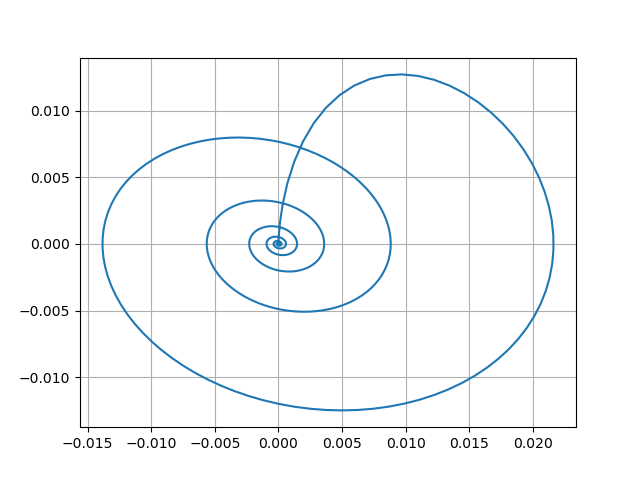
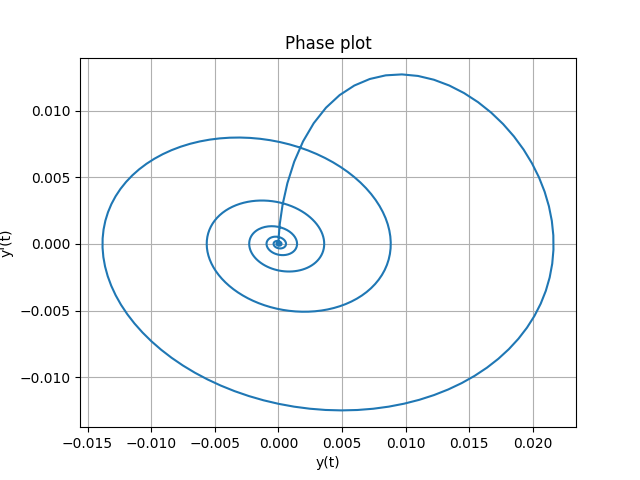
Changes lab3 system name and figures

diff --git a/lab3/exercises/exercise1/exercise1.py b/lab3/exercises/exercise1/exercise1.py
@@ -2,25 +2,26 @@ import numpy as np
 import matplotlib.pyplot as plt
 from scipy.integrate import odeint
 
-def pend(u, t):
+
+def system(u, t):
     y, z = u
-    dudt = [z, (-2*z - 5*y)/10]
+    dudt = [z, (-2 * z - 5 * y) / 10]
     return dudt
+
 
 u0a = [0, 0]
 u0b = [0, 1]
 u0c = [0, -1]
 
-t = np.linspace(0,50,1000)
+t = np.linspace(0, 50, 1000)
 
-sola = odeint(pend, u0a, t)
-solb = odeint(pend, u0b, t)
-solc = odeint(pend, u0c, t)
+sola = odeint(system, u0a, t)
+solb = odeint(system, u0b, t)
+solc = odeint(system, u0c, t)
 
-
-print(f"max distance sola = {max(sola[:,0])}")
-print(f"max distance solb = {max(solb[:,0])}")
-print(f"max distance solc = {min(solc[:,0])}")
+print(f"max distance sola = {max(sola[:, 0])}")
+print(f"max distance solb = {max(solb[:, 0])}")
+print(f"max distance solc = {min(solc[:, 0])}")
 
 fig, (axs1, axs2, axs3) = plt.subplots(3, 1)
 axs1.plot(t, sola[:, 0], 'b', label='y(t)')

diff --git a/lab3/exercises/exercise3/exercise3.py b/lab3/exercises/exercise3/exercise3.py
@@ -3,7 +3,7 @@ import numpy as np
 from scipy.integrate import odeint
 
 
-def pend(u, t):
+def system(u, t):
     y, z = u
     dudt = [z, (-2 * z - 5 * y + np.sin(t)) / 10]
     return dudt
@@ -12,20 +12,22 @@ u0 = [0, 0]
 
 t = np.linspace(0, 100, 10000)
 
-sol = odeint(pend, u0, t)
+sol = odeint(system, u0, t)
 
 plt.figure(1)
 plt.plot(t, sol[:, 0], 'b')
+plt.title('Displacement plot')
 plt.xlabel('t')
 plt.ylabel('y')
 plt.xticks(np.arange(0, 101, 20))
 plt.xlim(0, 100)
 plt.grid()
-print(sol[t>80,1])
+
 plt.figure(2)
+plt.plot(sol[t>50, 0], sol[t>50, 1])
+plt.title('Phase plot for t>50')
 plt.xlabel("y(t)")
 plt.ylabel("y'(t)")
-plt.plot(sol[t>50, 0], sol[t>50, 1])
 plt.grid()
 
 plt.show()

diff --git a/lab3/exercises/exercise4/exercise4.py b/lab3/exercises/exercise4/exercise4.py
@@ -3,7 +3,7 @@ import numpy as np
 from scipy.integrate import odeint
 
 
-def pend(u, t):
+def system(u, t):
     y, z = u
     dudt = [z, (-2 * z - 5 * y + np.sin(t) * np.exp(-2 * t)) / 10]
     return dudt
@@ -13,20 +13,20 @@ u0 = [0, 0]
 
 t = np.linspace(0, 100, 1000)
 
-sol = odeint(pend, u0, t)
+sol = odeint(system, u0, t)
 plt.figure(1)
-
+plt.title('Displacement plot')
 plt.plot(t, sol[:, 0], 'b')
-
 plt.xlabel('t')
 plt.ylabel('y(t)')
 plt.xticks(np.arange(0, 101, 20))
-
-
 plt.xlim(0, 60)
 plt.grid()
 
 plt.figure(2)
 plt.plot(sol[:, 0], sol[:, 1])
+plt.title('Phase plot')
+plt.xlabel("y(t)")
+plt.ylabel("y'(t)")
 plt.grid()
 plt.show()

diff --git a/lab3/exercises/exercise2/exercise2.py b/lab3/exercises/exercise2/exercise2.py
@@ -3,7 +3,7 @@ import numpy as np
 from scipy.integrate import odeint
 
 
-def pend(u, t, k):
+def system(u, t, k):
     y, z = u
     dudt = [z, (-2 * z - k * y) / 10]
     return dudt
@@ -14,9 +14,9 @@ u0 = [0, 1]
 t = np.linspace(0, 50, 10000)
 
 k1 = 5
-sol1 = odeint(pend, u0, t, args=(k1,))
+sol1 = odeint(system, u0, t, args=(k1,))
 k2 = 15
-sol2 = odeint(pend, u0, t, args=(k2,))
+sol2 = odeint(system, u0, t, args=(k2,))
 
 fig, (axs1, axs2) = plt.subplots(2, 1)
 axs1.plot(t, sol1[:, 0], 'b', label='y(t)')

diff --git a/lab3/system_description_case.py b/lab3/system_description_case.py
@@ -3,7 +3,7 @@ import numpy as np
 from scipy.integrate import odeint
 
 
-def pend(u, t):
+def system(u, t):
     y, z = u
     dudt = [z, (-2 * z - 5 * y + 5) / 10]
     return dudt
@@ -12,7 +12,7 @@ def pend(u, t):
 u0 = [1, 2]
 t = np.linspace(0, 50, 10000)
 
-sol = odeint(pend, u0, t)
+sol = odeint(system, u0, t)
 
 plt.plot(t, sol[:, 0], 'b', label='y(t)')
 plt.xlabel('t')

diff --git a/lab3/system_description.py b/lab3/system_description.py
@@ -20,9 +20,8 @@ plt.ylabel('y(t)')
 plt.grid()
 
 plt.figure(2)
-plt.plot(t, sol[:, 1], 'b', label='y(t)') # plot z(t)=y'(t)
+plt.plot(t, sol[:, 1], 'b', label="y'(t)") # plot z(t)=y'(t)
 plt.xlabel('t')
-plt.ylabel('y(t)')
-
+plt.ylabel("y'(t)")
 plt.grid()
 plt.show()
